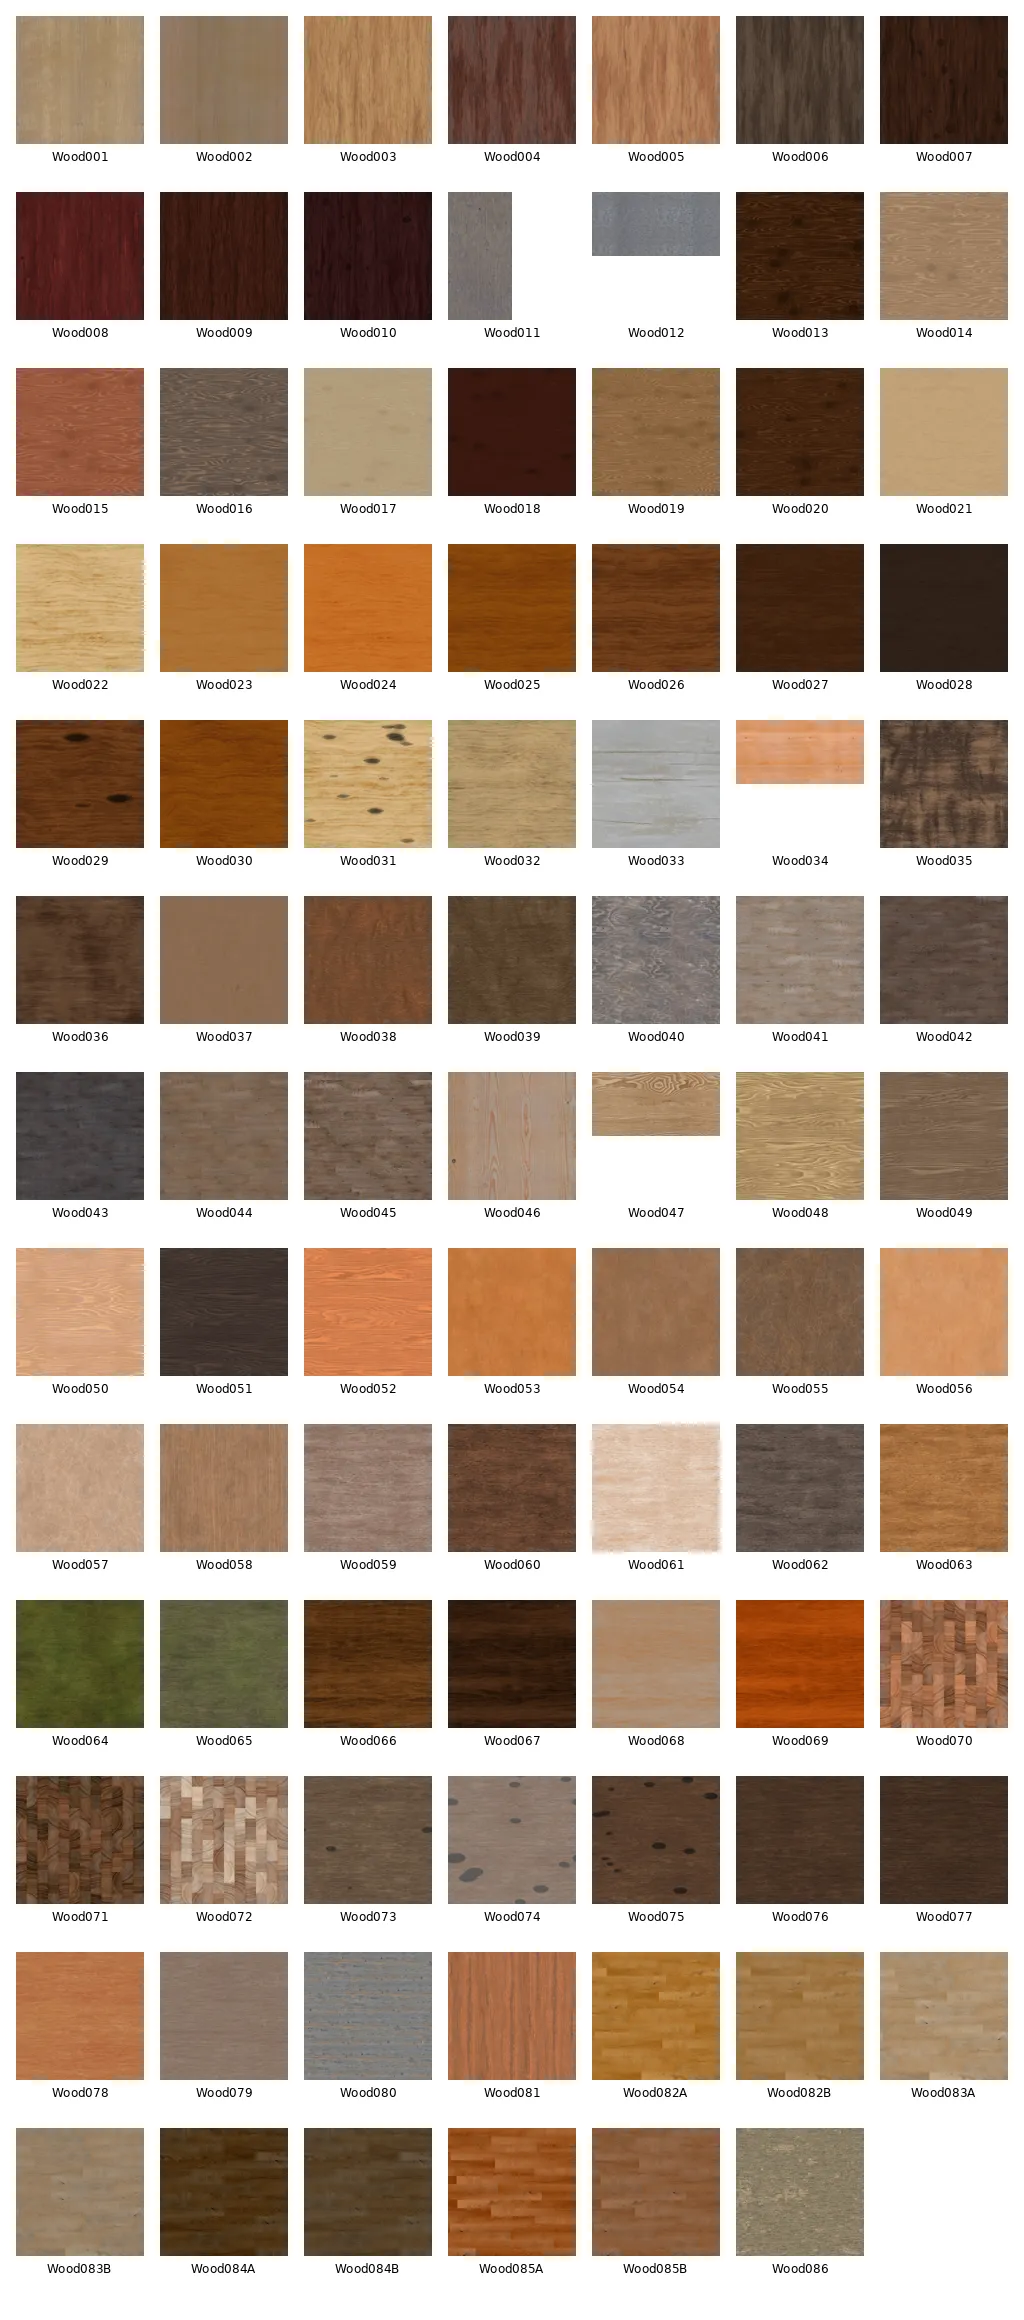
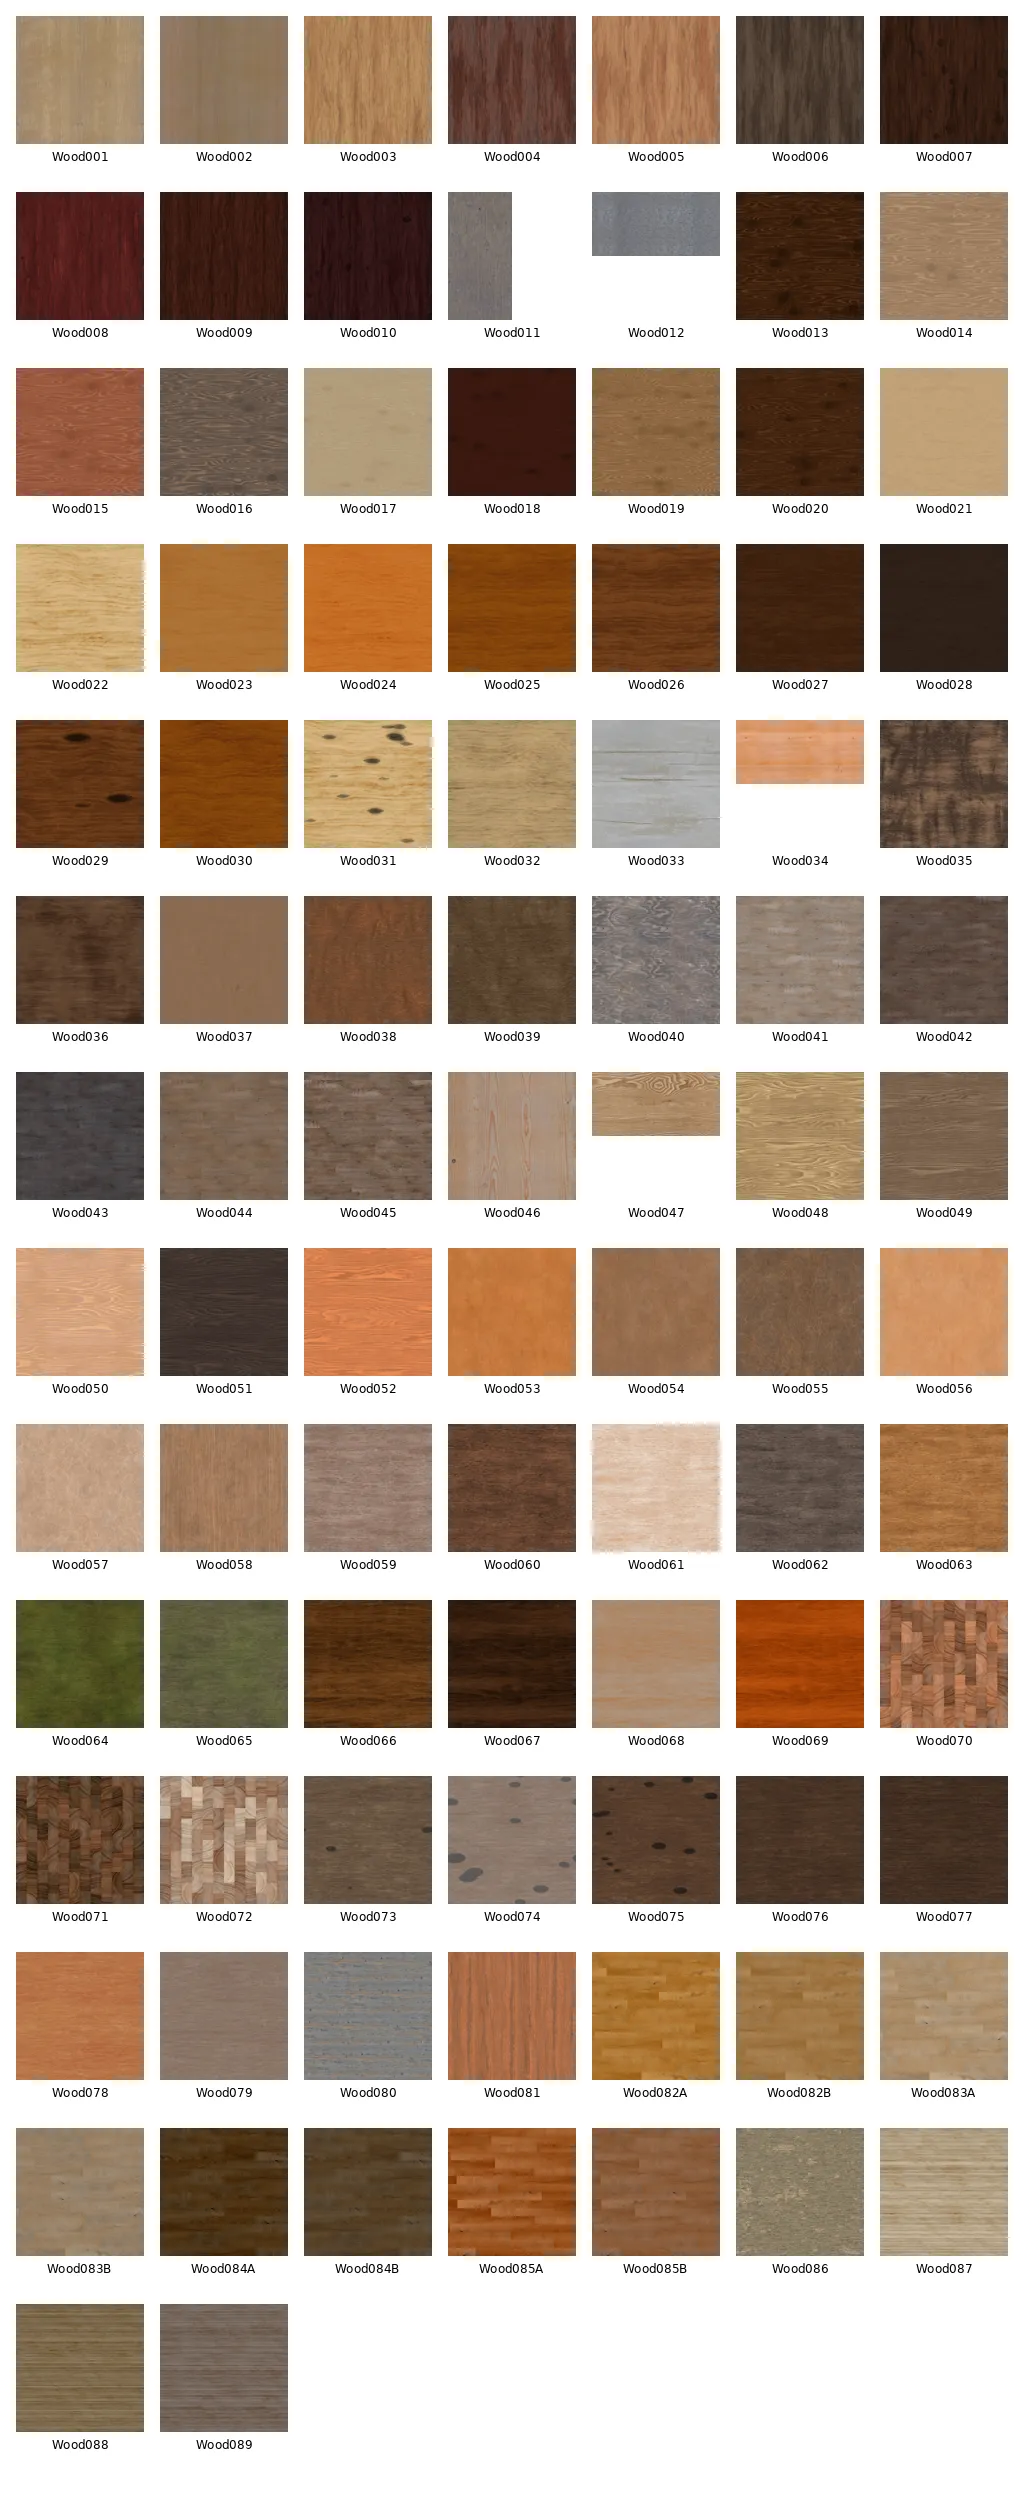
version: v2023.03.23

diff --git a/README.md b/README.md
@@ -5,19 +5,19 @@ The texture are resized to 3 sizes, so you can choose quality.
 
 3 qualities available: 256, 512 and 1024 pixels width.
 
-Current version: 2023.03.04<br>
-Total textures: 1183
+Current version: 2023.03.23<br>
+Total textures: 1191
 
 ## Install
 
 Just download the .sh3t file you want and use the texture library import feature from Sweethome3D from "Furniture" menu.
 
 
-* [ambientcg_1024.sh3t](https://fenouil-drive.mycozy.cloud/public?sharecode=QyiDq6EIACQi) - 179.2 MB
+* [ambientcg_1024.sh3t](https://fenouil-drive.mycozy.cloud/public?sharecode=QyiDq6EIACQi) - 180.4 MB
 
-* [ambientcg_512.sh3t](https://fenouil-drive.mycozy.cloud/public?sharecode=u2Ps0zAB8cij) - 46.4 MB
+* [ambientcg_512.sh3t](https://fenouil-drive.mycozy.cloud/public?sharecode=u2Ps0zAB8cij) - 46.7 MB
 
-* [ambientcg_256.sh3t](https://fenouil-drive.mycozy.cloud/public?sharecode=3gsbVKG3PFBM) - 12.2 MB
+* [ambientcg_256.sh3t](https://fenouil-drive.mycozy.cloud/public?sharecode=3gsbVKG3PFBM) - 12.3 MB
 
 
 ## Missing dimensions
@@ -58,220 +58,225 @@ The current code and content follow the same licence.
 
 ### Asphalt
 <picture>
-  <img alt="Preview of Asphalt" src="https://raw.githubusercontent.com/fabien-michel/sweethome3d-textures-ambientcg/v2023.03.04/previews/Asphalt.webp">
+  <img alt="Preview of Asphalt" src="https://raw.githubusercontent.com/fabien-michel/sweethome3d-textures-ambientcg/v2023.03.23/previews/Asphalt.webp">
 </picture>
 
 ### Bamboo
 <picture>
-  <img alt="Preview of Bamboo" src="https://raw.githubusercontent.com/fabien-michel/sweethome3d-textures-ambientcg/v2023.03.04/previews/Bamboo.webp">
+  <img alt="Preview of Bamboo" src="https://raw.githubusercontent.com/fabien-michel/sweethome3d-textures-ambientcg/v2023.03.23/previews/Bamboo.webp">
 </picture>
 
 ### Bark
 <picture>
-  <img alt="Preview of Bark" src="https://raw.githubusercontent.com/fabien-michel/sweethome3d-textures-ambientcg/v2023.03.04/previews/Bark.webp">
+  <img alt="Preview of Bark" src="https://raw.githubusercontent.com/fabien-michel/sweethome3d-textures-ambientcg/v2023.03.23/previews/Bark.webp">
 </picture>
 
 ### Bricks
 <picture>
-  <img alt="Preview of Bricks" src="https://raw.githubusercontent.com/fabien-michel/sweethome3d-textures-ambientcg/v2023.03.04/previews/Bricks.webp">
+  <img alt="Preview of Bricks" src="https://raw.githubusercontent.com/fabien-michel/sweethome3d-textures-ambientcg/v2023.03.23/previews/Bricks.webp">
 </picture>
 
 ### Cardboard
 <picture>
-  <img alt="Preview of Cardboard" src="https://raw.githubusercontent.com/fabien-michel/sweethome3d-textures-ambientcg/v2023.03.04/previews/Cardboard.webp">
+  <img alt="Preview of Cardboard" src="https://raw.githubusercontent.com/fabien-michel/sweethome3d-textures-ambientcg/v2023.03.23/previews/Cardboard.webp">
 </picture>
 
 ### Carpet
 <picture>
-  <img alt="Preview of Carpet" src="https://raw.githubusercontent.com/fabien-michel/sweethome3d-textures-ambientcg/v2023.03.04/previews/Carpet.webp">
+  <img alt="Preview of Carpet" src="https://raw.githubusercontent.com/fabien-michel/sweethome3d-textures-ambientcg/v2023.03.23/previews/Carpet.webp">
 </picture>
 
 ### Chainmail
 <picture>
-  <img alt="Preview of Chainmail" src="https://raw.githubusercontent.com/fabien-michel/sweethome3d-textures-ambientcg/v2023.03.04/previews/Chainmail.webp">
+  <img alt="Preview of Chainmail" src="https://raw.githubusercontent.com/fabien-michel/sweethome3d-textures-ambientcg/v2023.03.23/previews/Chainmail.webp">
 </picture>
 
 ### Chipboard
 <picture>
-  <img alt="Preview of Chipboard" src="https://raw.githubusercontent.com/fabien-michel/sweethome3d-textures-ambientcg/v2023.03.04/previews/Chipboard.webp">
+  <img alt="Preview of Chipboard" src="https://raw.githubusercontent.com/fabien-michel/sweethome3d-textures-ambientcg/v2023.03.23/previews/Chipboard.webp">
 </picture>
 
 ### Clay
 <picture>
-  <img alt="Preview of Clay" src="https://raw.githubusercontent.com/fabien-michel/sweethome3d-textures-ambientcg/v2023.03.04/previews/Clay.webp">
+  <img alt="Preview of Clay" src="https://raw.githubusercontent.com/fabien-michel/sweethome3d-textures-ambientcg/v2023.03.23/previews/Clay.webp">
 </picture>
 
 ### Concrete
 <picture>
-  <img alt="Preview of Concrete" src="https://raw.githubusercontent.com/fabien-michel/sweethome3d-textures-ambientcg/v2023.03.04/previews/Concrete.webp">
+  <img alt="Preview of Concrete" src="https://raw.githubusercontent.com/fabien-michel/sweethome3d-textures-ambientcg/v2023.03.23/previews/Concrete.webp">
 </picture>
 
 ### Cork
 <picture>
-  <img alt="Preview of Cork" src="https://raw.githubusercontent.com/fabien-michel/sweethome3d-textures-ambientcg/v2023.03.04/previews/Cork.webp">
+  <img alt="Preview of Cork" src="https://raw.githubusercontent.com/fabien-michel/sweethome3d-textures-ambientcg/v2023.03.23/previews/Cork.webp">
 </picture>
 
 ### CorrugatedSteel
 <picture>
-  <img alt="Preview of CorrugatedSteel" src="https://raw.githubusercontent.com/fabien-michel/sweethome3d-textures-ambientcg/v2023.03.04/previews/CorrugatedSteel.webp">
+  <img alt="Preview of CorrugatedSteel" src="https://raw.githubusercontent.com/fabien-michel/sweethome3d-textures-ambientcg/v2023.03.23/previews/CorrugatedSteel.webp">
 </picture>
 
 ### DiamondPlate
 <picture>
-  <img alt="Preview of DiamondPlate" src="https://raw.githubusercontent.com/fabien-michel/sweethome3d-textures-ambientcg/v2023.03.04/previews/DiamondPlate.webp">
+  <img alt="Preview of DiamondPlate" src="https://raw.githubusercontent.com/fabien-michel/sweethome3d-textures-ambientcg/v2023.03.23/previews/DiamondPlate.webp">
 </picture>
 
 ### Fabric
 <picture>
-  <img alt="Preview of Fabric" src="https://raw.githubusercontent.com/fabien-michel/sweethome3d-textures-ambientcg/v2023.03.04/previews/Fabric.webp">
+  <img alt="Preview of Fabric" src="https://raw.githubusercontent.com/fabien-michel/sweethome3d-textures-ambientcg/v2023.03.23/previews/Fabric.webp">
 </picture>
 
 ### GlazedTerracotta
 <picture>
-  <img alt="Preview of GlazedTerracotta" src="https://raw.githubusercontent.com/fabien-michel/sweethome3d-textures-ambientcg/v2023.03.04/previews/GlazedTerracotta.webp">
+  <img alt="Preview of GlazedTerracotta" src="https://raw.githubusercontent.com/fabien-michel/sweethome3d-textures-ambientcg/v2023.03.23/previews/GlazedTerracotta.webp">
 </picture>
 
 ### Granite
 <picture>
-  <img alt="Preview of Granite" src="https://raw.githubusercontent.com/fabien-michel/sweethome3d-textures-ambientcg/v2023.03.04/previews/Granite.webp">
+  <img alt="Preview of Granite" src="https://raw.githubusercontent.com/fabien-michel/sweethome3d-textures-ambientcg/v2023.03.23/previews/Granite.webp">
 </picture>
 
 ### Grass
 <picture>
-  <img alt="Preview of Grass" src="https://raw.githubusercontent.com/fabien-michel/sweethome3d-textures-ambientcg/v2023.03.04/previews/Grass.webp">
+  <img alt="Preview of Grass" src="https://raw.githubusercontent.com/fabien-michel/sweethome3d-textures-ambientcg/v2023.03.23/previews/Grass.webp">
 </picture>
 
 ### Gravel
 <picture>
-  <img alt="Preview of Gravel" src="https://raw.githubusercontent.com/fabien-michel/sweethome3d-textures-ambientcg/v2023.03.04/previews/Gravel.webp">
+  <img alt="Preview of Gravel" src="https://raw.githubusercontent.com/fabien-michel/sweethome3d-textures-ambientcg/v2023.03.23/previews/Gravel.webp">
 </picture>
 
 ### Ground
 <picture>
-  <img alt="Preview of Ground" src="https://raw.githubusercontent.com/fabien-michel/sweethome3d-textures-ambientcg/v2023.03.04/previews/Ground.webp">
+  <img alt="Preview of Ground" src="https://raw.githubusercontent.com/fabien-michel/sweethome3d-textures-ambientcg/v2023.03.23/previews/Ground.webp">
 </picture>
 
 ### Marble
 <picture>
-  <img alt="Preview of Marble" src="https://raw.githubusercontent.com/fabien-michel/sweethome3d-textures-ambientcg/v2023.03.04/previews/Marble.webp">
+  <img alt="Preview of Marble" src="https://raw.githubusercontent.com/fabien-michel/sweethome3d-textures-ambientcg/v2023.03.23/previews/Marble.webp">
 </picture>
 
 ### Metal
 <picture>
-  <img alt="Preview of Metal" src="https://raw.githubusercontent.com/fabien-michel/sweethome3d-textures-ambientcg/v2023.03.04/previews/Metal.webp">
+  <img alt="Preview of Metal" src="https://raw.githubusercontent.com/fabien-michel/sweethome3d-textures-ambientcg/v2023.03.23/previews/Metal.webp">
 </picture>
 
 ### Moss
 <picture>
-  <img alt="Preview of Moss" src="https://raw.githubusercontent.com/fabien-michel/sweethome3d-textures-ambientcg/v2023.03.04/previews/Moss.webp">
+  <img alt="Preview of Moss" src="https://raw.githubusercontent.com/fabien-michel/sweethome3d-textures-ambientcg/v2023.03.23/previews/Moss.webp">
 </picture>
 
 ### OfficeCeiling
 <picture>
-  <img alt="Preview of OfficeCeiling" src="https://raw.githubusercontent.com/fabien-michel/sweethome3d-textures-ambientcg/v2023.03.04/previews/OfficeCeiling.webp">
+  <img alt="Preview of OfficeCeiling" src="https://raw.githubusercontent.com/fabien-michel/sweethome3d-textures-ambientcg/v2023.03.23/previews/OfficeCeiling.webp">
 </picture>
 
 ### Paint
 <picture>
-  <img alt="Preview of Paint" src="https://raw.githubusercontent.com/fabien-michel/sweethome3d-textures-ambientcg/v2023.03.04/previews/Paint.webp">
+  <img alt="Preview of Paint" src="https://raw.githubusercontent.com/fabien-michel/sweethome3d-textures-ambientcg/v2023.03.23/previews/Paint.webp">
 </picture>
 
 ### Paper
 <picture>
-  <img alt="Preview of Paper" src="https://raw.githubusercontent.com/fabien-michel/sweethome3d-textures-ambientcg/v2023.03.04/previews/Paper.webp">
+  <img alt="Preview of Paper" src="https://raw.githubusercontent.com/fabien-michel/sweethome3d-textures-ambientcg/v2023.03.23/previews/Paper.webp">
 </picture>
 
 ### PavingStones
 <picture>
-  <img alt="Preview of PavingStones" src="https://raw.githubusercontent.com/fabien-michel/sweethome3d-textures-ambientcg/v2023.03.04/previews/PavingStones.webp">
+  <img alt="Preview of PavingStones" src="https://raw.githubusercontent.com/fabien-michel/sweethome3d-textures-ambientcg/v2023.03.23/previews/PavingStones.webp">
 </picture>
 
 ### Planks
 <picture>
-  <img alt="Preview of Planks" src="https://raw.githubusercontent.com/fabien-michel/sweethome3d-textures-ambientcg/v2023.03.04/previews/Planks.webp">
+  <img alt="Preview of Planks" src="https://raw.githubusercontent.com/fabien-michel/sweethome3d-textures-ambientcg/v2023.03.23/previews/Planks.webp">
 </picture>
 
 ### Plaster
 <picture>
-  <img alt="Preview of Plaster" src="https://raw.githubusercontent.com/fabien-michel/sweethome3d-textures-ambientcg/v2023.03.04/previews/Plaster.webp">
+  <img alt="Preview of Plaster" src="https://raw.githubusercontent.com/fabien-michel/sweethome3d-textures-ambientcg/v2023.03.23/previews/Plaster.webp">
 </picture>
 
 ### Plastic
 <picture>
-  <img alt="Preview of Plastic" src="https://raw.githubusercontent.com/fabien-michel/sweethome3d-textures-ambientcg/v2023.03.04/previews/Plastic.webp">
+  <img alt="Preview of Plastic" src="https://raw.githubusercontent.com/fabien-michel/sweethome3d-textures-ambientcg/v2023.03.23/previews/Plastic.webp">
 </picture>
 
 ### Porcelain
 <picture>
-  <img alt="Preview of Porcelain" src="https://raw.githubusercontent.com/fabien-michel/sweethome3d-textures-ambientcg/v2023.03.04/previews/Porcelain.webp">
+  <img alt="Preview of Porcelain" src="https://raw.githubusercontent.com/fabien-michel/sweethome3d-textures-ambientcg/v2023.03.23/previews/Porcelain.webp">
 </picture>
 
 ### Road
 <picture>
-  <img alt="Preview of Road" src="https://raw.githubusercontent.com/fabien-michel/sweethome3d-textures-ambientcg/v2023.03.04/previews/Road.webp">
+  <img alt="Preview of Road" src="https://raw.githubusercontent.com/fabien-michel/sweethome3d-textures-ambientcg/v2023.03.23/previews/Road.webp">
 </picture>
 
 ### Rock
 <picture>
-  <img alt="Preview of Rock" src="https://raw.githubusercontent.com/fabien-michel/sweethome3d-textures-ambientcg/v2023.03.04/previews/Rock.webp">
+  <img alt="Preview of Rock" src="https://raw.githubusercontent.com/fabien-michel/sweethome3d-textures-ambientcg/v2023.03.23/previews/Rock.webp">
 </picture>
 
 ### Rocks
 <picture>
-  <img alt="Preview of Rocks" src="https://raw.githubusercontent.com/fabien-michel/sweethome3d-textures-ambientcg/v2023.03.04/previews/Rocks.webp">
+  <img alt="Preview of Rocks" src="https://raw.githubusercontent.com/fabien-michel/sweethome3d-textures-ambientcg/v2023.03.23/previews/Rocks.webp">
 </picture>
 
 ### RoofingTiles
 <picture>
-  <img alt="Preview of RoofingTiles" src="https://raw.githubusercontent.com/fabien-michel/sweethome3d-textures-ambientcg/v2023.03.04/previews/RoofingTiles.webp">
+  <img alt="Preview of RoofingTiles" src="https://raw.githubusercontent.com/fabien-michel/sweethome3d-textures-ambientcg/v2023.03.23/previews/RoofingTiles.webp">
 </picture>
 
 ### Rust
 <picture>
-  <img alt="Preview of Rust" src="https://raw.githubusercontent.com/fabien-michel/sweethome3d-textures-ambientcg/v2023.03.04/previews/Rust.webp">
+  <img alt="Preview of Rust" src="https://raw.githubusercontent.com/fabien-michel/sweethome3d-textures-ambientcg/v2023.03.23/previews/Rust.webp">
 </picture>
 
 ### Snow
 <picture>
-  <img alt="Preview of Snow" src="https://raw.githubusercontent.com/fabien-michel/sweethome3d-textures-ambientcg/v2023.03.04/previews/Snow.webp">
+  <img alt="Preview of Snow" src="https://raw.githubusercontent.com/fabien-michel/sweethome3d-textures-ambientcg/v2023.03.23/previews/Snow.webp">
 </picture>
 
 ### SolarPanel
 <picture>
-  <img alt="Preview of SolarPanel" src="https://raw.githubusercontent.com/fabien-michel/sweethome3d-textures-ambientcg/v2023.03.04/previews/SolarPanel.webp">
+  <img alt="Preview of SolarPanel" src="https://raw.githubusercontent.com/fabien-michel/sweethome3d-textures-ambientcg/v2023.03.23/previews/SolarPanel.webp">
 </picture>
 
 ### Terrazzo
 <picture>
-  <img alt="Preview of Terrazzo" src="https://raw.githubusercontent.com/fabien-michel/sweethome3d-textures-ambientcg/v2023.03.04/previews/Terrazzo.webp">
+  <img alt="Preview of Terrazzo" src="https://raw.githubusercontent.com/fabien-michel/sweethome3d-textures-ambientcg/v2023.03.23/previews/Terrazzo.webp">
+</picture>
+
+### ThatchedRoof
+<picture>
+  <img alt="Preview of ThatchedRoof" src="https://raw.githubusercontent.com/fabien-michel/sweethome3d-textures-ambientcg/v2023.03.23/previews/ThatchedRoof.webp">
 </picture>
 
 ### Tiles
 <picture>
-  <img alt="Preview of Tiles" src="https://raw.githubusercontent.com/fabien-michel/sweethome3d-textures-ambientcg/v2023.03.04/previews/Tiles.webp">
+  <img alt="Preview of Tiles" src="https://raw.githubusercontent.com/fabien-michel/sweethome3d-textures-ambientcg/v2023.03.23/previews/Tiles.webp">
 </picture>
 
 ### Wallpaper
 <picture>
-  <img alt="Preview of Wallpaper" src="https://raw.githubusercontent.com/fabien-michel/sweethome3d-textures-ambientcg/v2023.03.04/previews/Wallpaper.webp">
+  <img alt="Preview of Wallpaper" src="https://raw.githubusercontent.com/fabien-michel/sweethome3d-textures-ambientcg/v2023.03.23/previews/Wallpaper.webp">
 </picture>
 
 ### Wood
 <picture>
-  <img alt="Preview of Wood" src="https://raw.githubusercontent.com/fabien-michel/sweethome3d-textures-ambientcg/v2023.03.04/previews/Wood.webp">
+  <img alt="Preview of Wood" src="https://raw.githubusercontent.com/fabien-michel/sweethome3d-textures-ambientcg/v2023.03.23/previews/Wood.webp">
 </picture>
 
 ### WoodChips
 <picture>
-  <img alt="Preview of WoodChips" src="https://raw.githubusercontent.com/fabien-michel/sweethome3d-textures-ambientcg/v2023.03.04/previews/WoodChips.webp">
+  <img alt="Preview of WoodChips" src="https://raw.githubusercontent.com/fabien-michel/sweethome3d-textures-ambientcg/v2023.03.23/previews/WoodChips.webp">
 </picture>
 
 ### WoodFloor
 <picture>
-  <img alt="Preview of WoodFloor" src="https://raw.githubusercontent.com/fabien-michel/sweethome3d-textures-ambientcg/v2023.03.04/previews/WoodFloor.webp">
+  <img alt="Preview of WoodFloor" src="https://raw.githubusercontent.com/fabien-michel/sweethome3d-textures-ambientcg/v2023.03.23/previews/WoodFloor.webp">
 </picture>
 
 ### WoodSiding
 <picture>
-  <img alt="Preview of WoodSiding" src="https://raw.githubusercontent.com/fabien-michel/sweethome3d-textures-ambientcg/v2023.03.04/previews/WoodSiding.webp">
+  <img alt="Preview of WoodSiding" src="https://raw.githubusercontent.com/fabien-michel/sweethome3d-textures-ambientcg/v2023.03.23/previews/WoodSiding.webp">
 </picture>
